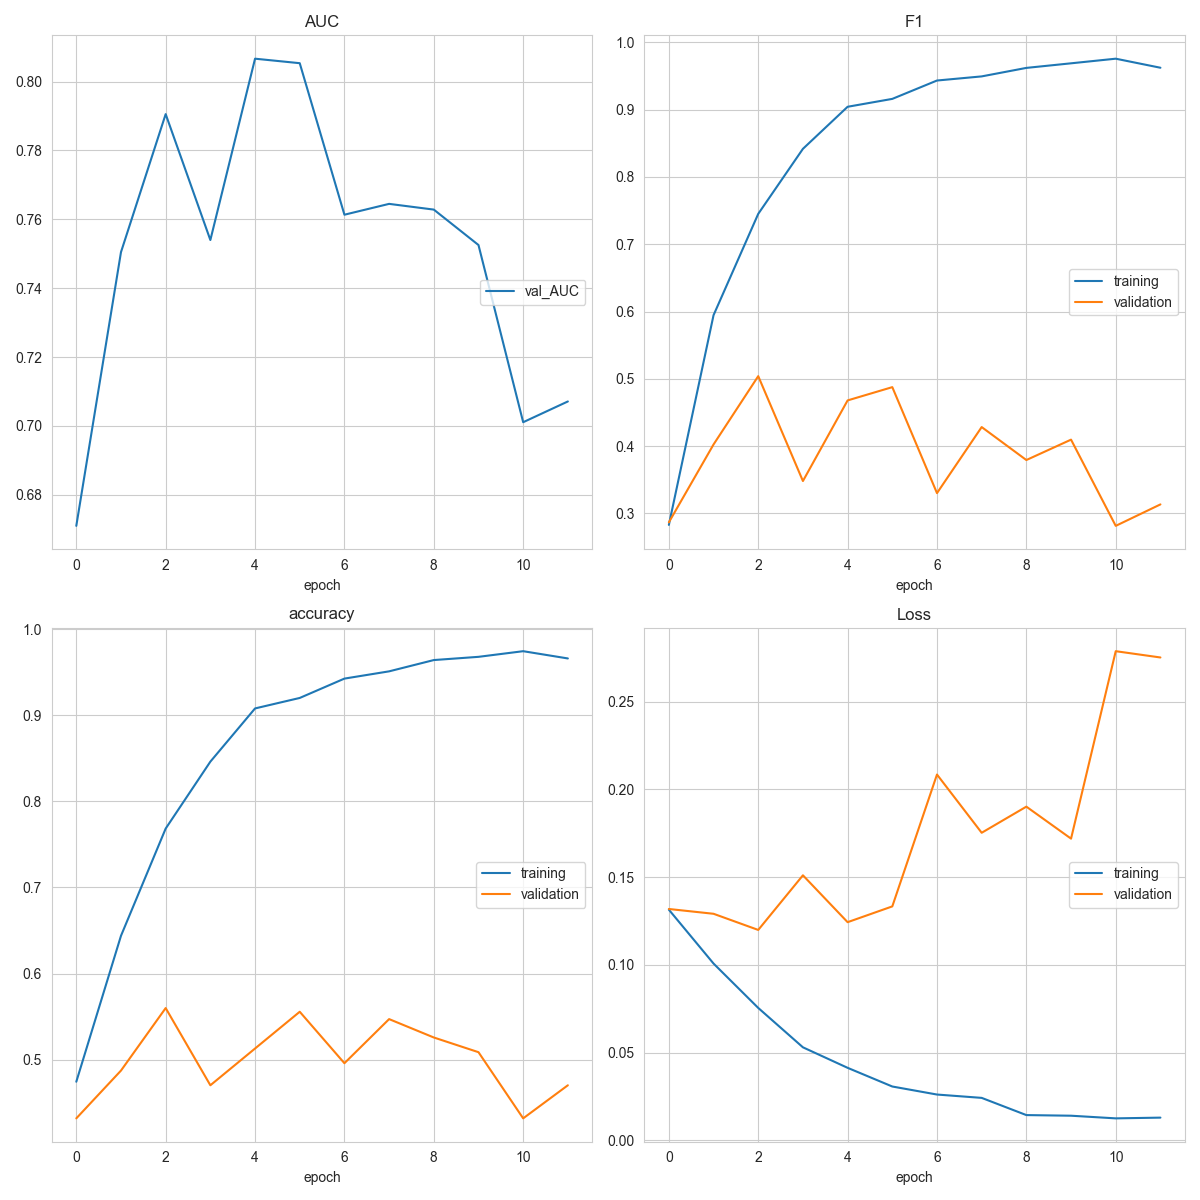
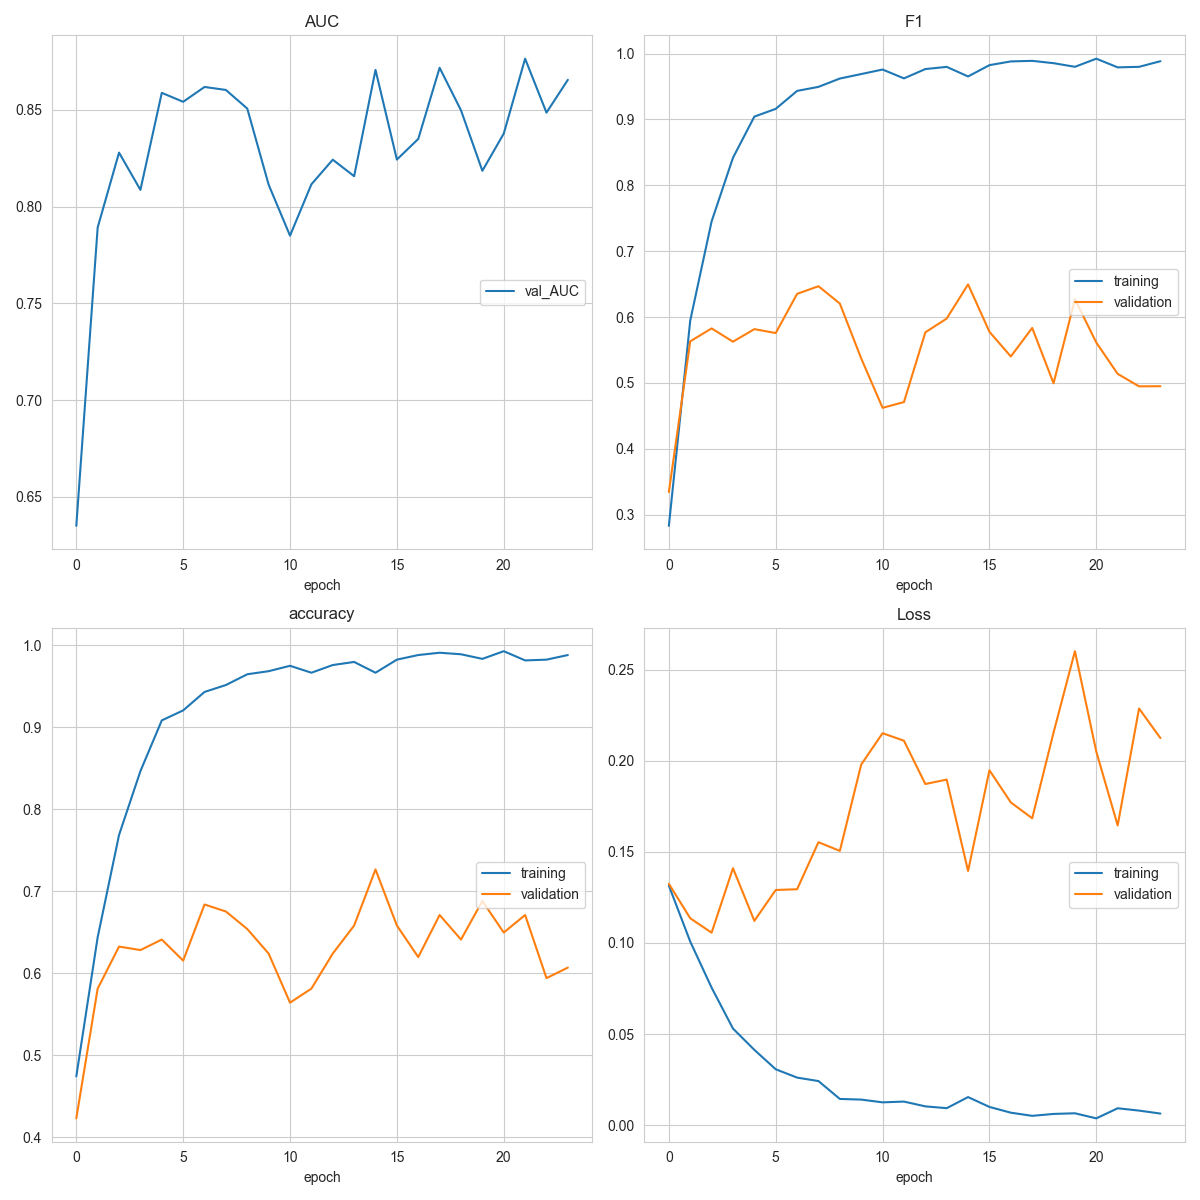
✨ Readme, requirements.txt, efficientnet_v2s com novos transforms

diff --git a/README.md b/README.md
@@ -34,7 +34,15 @@ Root:
     - 📙 [subm3-g1-MMC-B.ipynb](Subm3/subm3-g1-MMC-B.ipynb)
   - 📙 dataset_preparation_v2.ipynb
   - 📙 dataset_preparation_v2.ipynb
-  - 📝 enunciadoTrabalho.odf
+  - 📝 enunciadoTrabalho.pdf
 - Modulo_2:
-  - Apresentacao
-  - DEV
+  - 📁 Apresentacao: Diretório contendo o PowerPoint da apresentação
+  - 📁 DEV: Códigos utilizados para treinamento de modelos e experimentos
+    - 📁 cinthia: Modelos desenvolvidos / treinados por Cinthia Ungefehr
+      - 📁 training: Diretório com os notebooks treinados
+      - 📙 exploration.ipynb: Notebook de exploração dos dados
+      - 📙 preprocessing.ipynb: Notebook de pré-processamento desenvolvido por Monica Montes
+    - 📁 fabiano: Modelos desenvolvidos / treinados por Fabiano Sousa (códigos executados no google colab)
+    - 📁 joao: Modelos desenvolvidos / treinados por João Barbosa
+    - 📁 loren: Modelos desenvolvidos / treinados por Lóren Narrane (códigos executados no google colab)
+  - 📝 requirements.txt: Pacotes necessários para execução dos modelos disponíveis nas pastas cinthia, loren e joao. Os códigos da pasta fabiano contém indicação de pacotes necessários em cada notebook.